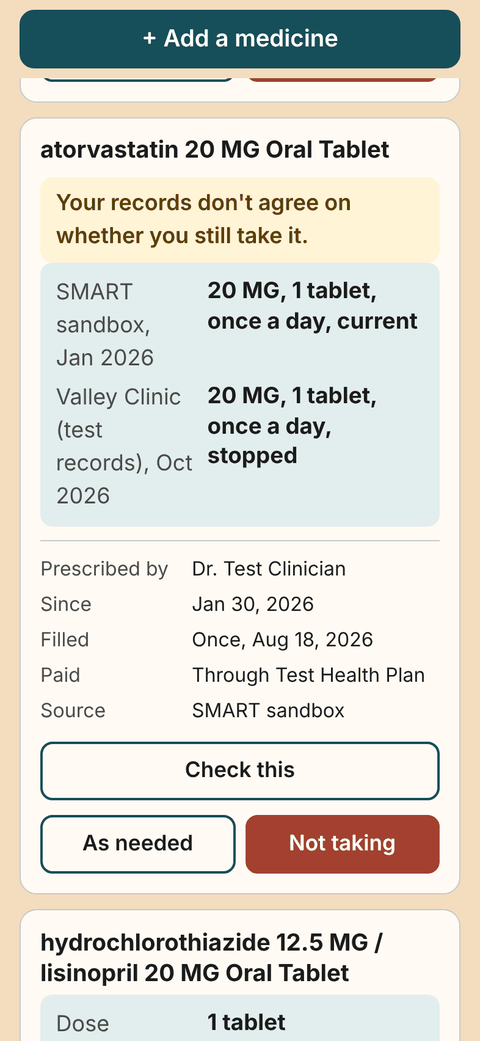
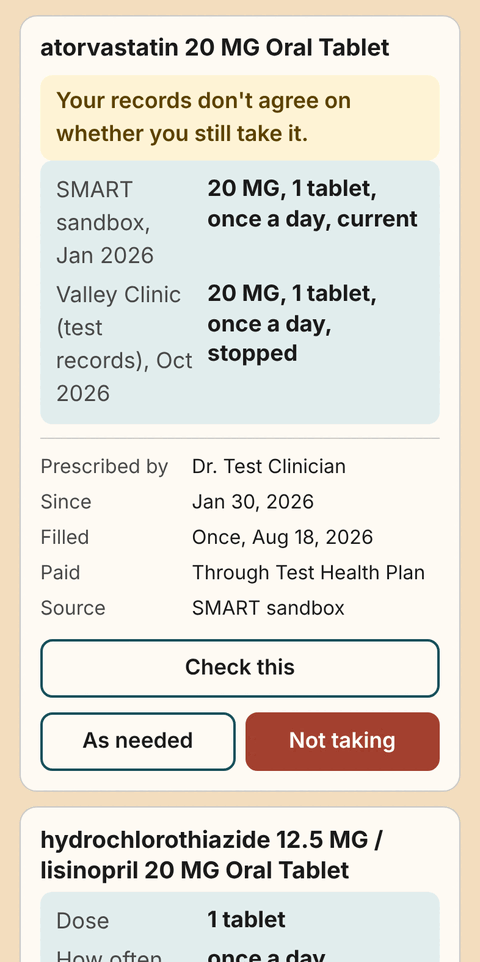
Say where the list is kept, name every source on the card, and tidy the docs
Claude-Session: https://claude.ai/code/session_01U63ikgR7FUZdBDYNJPYFoh

diff --git a/js/share.js b/js/share.js
@@ -7,7 +7,7 @@
 
 import { fillNote, completedNote, suggestNote } from "./claims.js";
 import { holdText } from "./meds.js";
-import { olderText, dateText, monthText, fillRowsFrom, isDirections, oldFillText, takeRows } from "./card.js";
+import { olderText, dateText, monthText, fillRowsFrom, isDirections, oldFillText, recordsDisagree, sourcesText, takeRows } from "./card.js";
 import { isMarkFingerprint, isOwnSide, sideWords } from "./reconcile.js";
 import { NOT_SURE, UNNAMED, UNSPECIFIED, allergenNamed, isUnspecified, unspecifiedSentence, noneCode, statementOf, longDate } from "./allergies.js";
 import { deriveKeyFromPin, toBase64Url, fromBase64Url, concatBytes } from "./vault.js";
@@ -153,7 +153,6 @@ export function buildShareBundle(list, now, warnings = {}, level = 0, undated = 
 // Staff notes (spec section 9).
 var DISAGREE_NOTE = "Records disagree";
 var UNSURE_NOTE = "Patient isn't sure";
-var ASKED_VERDICTS = ["status", "dose", "schedule"];
 
 // One current card's statements. Until the patient answers, or when they
 // aren't sure, each side is its own statement, so nothing one source says is
@@ -163,7 +162,7 @@ function currentStatements(item, level, dated) {
   var question = answer ? null : item.question;
   var sides = item.group && item.group.sides.length > 1 ? item.group.sides : null;
   // The records disagree with each other, whatever the patient marked.
-  var asked = Boolean(sides) && item.group.verdicts.some(function (verdict) { return ASKED_VERDICTS.indexOf(verdict) !== -1; });
+  var asked = recordsDisagree(item);
   var out;
   if (question && isMarkFingerprint(question.fingerprint)) {
     var records = asked ? sideStatements(item, sides, level, [DISAGREE_NOTE], dated) : [recordStatement(item, level)];
@@ -301,7 +300,7 @@ function recordStatement(item, level, from) {
     statement.informationSource = { display: item.source };
     statement.note = [{ text: CLAIMS_ONLY_NOTE }];
   } else {
-    statement.note = [{ text: "From records: " + (from || sourcesOf(item)) }];
+    statement.note = [{ text: "From records: " + (from || sourcesText(item)) }];
   }
   if (item.prescriber) {
     statement.note.push({ text: "Prescribed by " + item.prescriber });
@@ -324,11 +323,6 @@ function recordStatement(item, level, from) {
     asNeeded(statement, RECORDS_AS_NEEDED_NOTE);
   }
   return statement;
-}
-
-function sourcesOf(item) {
-  var names = ((item.group && item.group.sources) || []).filter(function (name, index, all) { return name && all.indexOf(name) === index; });
-  return names.length > 1 ? names.join(", ") : item.source;
 }
 
 // The patient's Not taking mark, as today.

diff --git a/js/card.js b/js/card.js
@@ -131,7 +131,9 @@ export function patientCard(entry, claimsLoaded, today) {
   if (claimsLoaded) facts = facts.concat(fillRows(entry.fills));
   say("Added", entry.addedAt && dateText(entry.addedAt));
   say("From", entry.older && olderText(entry.older.date));
-  if (fromRecords) say("Source", otherRecord ? chosen.sourceName : entry.source);
+  // Records that agree name every source, like the staff page; a chosen
+  // side, or records that disagree, the record whose facts these are.
+  if (fromRecords) say("Source", otherRecord ? chosen.sourceName : (chosen || recordsDisagree(entry)) ? entry.source : sourcesText(entry));
   say("You marked", entry.stoppedAt ? "Not taking, " + dateText(entry.stoppedAt) : entry.asNeededAt ? "As needed, " + dateText(entry.asNeededAt) : null);
   if (entry.prn) say("Who says", "Your records say as needed");
   else if (!entry.asNeededAt && entry.schedule && entry.schedule.asNeeded) say("Who says", "You added this");
@@ -148,6 +150,21 @@ export function patientCard(entry, claimsLoaded, today) {
   // A chosen side names the card too, so its name and dose are one record's.
   if (cardName(entry) !== entry.name) card.name = cardName(entry);
   return card;
+}
+
+// What the records disagree on that the patient is asked about. "worded"
+// alone is the same medicine, said differently.
+var ASKED_VERDICTS = ["status", "dose", "schedule"];
+
+export function recordsDisagree(entry) {
+  return Boolean(entry.group) && (entry.group.sides || []).length > 1 && (entry.group.verdicts || []).some(function (verdict) { return ASKED_VERDICTS.indexOf(verdict) !== -1; });
+}
+
+// Who says so, for records that agree: every source, each once, as the
+// patient's card and the staff page both say it.
+export function sourcesText(entry) {
+  var names = ((entry.group && entry.group.sources) || []).filter(function (name, index, all) { return name && all.indexOf(name) === index; });
+  return names.length > 1 ? names.join(", ") : entry.source;
 }
 
 // The name a card shows: the side the patient chose, else the record's.

diff --git a/js/sources.js b/js/sources.js
@@ -88,10 +88,10 @@ function fillsRow(split, date, format) {
   return ["Insurance fills", split.claims === "refused" ? "Sign in again to add them" : "Not loaded"];
 }
 
-// What launch.html does. A link that names its own server (the README's test
-// patients, the SMART Launcher) or a chosen patient signs in. A connected source
-// shows its patients; anything else the sources, so an odd address never starts
-// a sign-in.
+// What launch.html does. A link that names its own server (the test
+// patients in docs/SANDBOXES.md, the SMART Launcher) or a chosen patient
+// signs in. A connected source shows its patients; anything else the
+// sources, so an odd address never starts a sign-in.
 export function startFor(search) {
   var params = new URLSearchParams(search);
   if (params.get("iss")) return "sign-in";

diff --git a/sw.js b/sw.js
@@ -3,7 +3,7 @@
 // It never keeps health data. Records (FHIR), the sign-in server and RxNav
 // always go straight to the network and are never cached.
 
-var CACHE = "brownbag-v98";
+var CACHE = "brownbag-v99";
 // On weak Wi-Fi, stop waiting after this long and use the phone's copy.
 var NETWORK_WAIT_MS = 3000;
 

diff --git a/README.md b/README.md
@@ -33,8 +33,9 @@ The pictures are Riley Reconcile, made up, with the home server's test clinic.
   PIN), then **Connect your health records**. After that, the lock opens Brown
   Bag and the list updates by itself. It locks after 5 minutes idle.
 - **My medicines:** allergies first, then the medicines from the records,
-  repeats merged, directions in full. Older prescriptions fold away, with a
-  hospital's order for a stay among them, labelled "Hospital order".
+  repeats merged, directions in full, each card naming every source that
+  lists it. Older prescriptions fold away, with a hospital's order for a stay
+  among them, labelled "Hospital order".
 - **Fills** from insurance claims: how many, and when last. When the newest is
   over a year old, the card says "Last filled over a year ago."
 - **When sources disagree** on how much, how often or whether it's still
@@ -75,8 +76,9 @@ RxNav; the staff page, nothing.
 - **Reads:** Patient, MedicationRequest, MedicationStatement, pharmacy claims
   (ExplanationOfBenefit) and AllergyIntolerance, every page, plus RxNav for
   ingredients, term types and package codes. Nothing is written back.
-- **Storage:** the list and the patient's additions, marks and answers, saved
-  encrypted on the phone and in backups. The service worker keeps app files only.
+- **Storage:** the list is saved encrypted on the phone. The patient's
+  additions, marks and answers are saved the same way and go in backups; the
+  list and the sign-in never do. The service worker keeps app files only.
 - **Reconciliation:** every source's records are kept and compared fresh on
   each update; nothing is overwritten. A second source joins only with the
   same name and birth date. Today it's the home server's test clinic.
@@ -103,10 +105,10 @@ design; the reasons behind each are in [LIMITS](docs/LIMITS.md).
 - **Reading directions** (idea): "1 tab PO BID" read as "twice a day". [LIMITS #24](docs/LIMITS.md)
 - **A reminder before appointments** (idea). [LIMITS #1](docs/LIMITS.md)
 - **When each source was last read** (idea), with several sources. [LIMITS #21](docs/LIMITS.md)
-- **Text past 200 percent** (idea): My medicines and the QR screen fit. [LIMITS #28](docs/LIMITS.md)
+- **Text past 200 percent** (idea): My medicines, the QR screen and the staff page's title fit. [LIMITS #28](docs/LIMITS.md)
 
 **Back end**
-- **Medicare Part D fills** (designed and planned; waiting on Medicare's approval). [Design](docs/superpowers/specs/2026-11-22-medicare-blue-button-design.md)
+- **Medicare Part D fills** (designed and planned; waiting on Medicare's approval). It adds one small server function, which only completes and renews Medicare's sign-in and never sees the list. [Design](docs/superpowers/specs/2026-11-22-medicare-blue-button-design.md)
 - **Epic, Oracle Health, MEDITECH, Medicaid, pharmacy fills** (idea; named on the connections screen). [SANDBOXES](docs/SANDBOXES.md#sandboxes-looked-at)
 - **SMART Health Links** (idea; needs a server to hold the file). [LIMITS #19](docs/LIMITS.md)
 - **Two sign-ins for one person** (idea; comes after Medicare). [LIMITS #22](docs/LIMITS.md)
@@ -121,8 +123,9 @@ design; the reasons behind each are in [LIMITS](docs/LIMITS.md).
 Node 22 or later, nothing to install: `node --test "tests/*.test.mjs"` runs
 the tests. On a phone, passkeys and encryption need https: `node
 tools/serve.mjs` serves this folder at `https://localhost:8443` with a
-certificate kept in `.certs/`. For two sources, start it with
-`BROWN_BAG_DEMO=two-clinics` ([the test clinic](docs/SANDBOXES.md#the-home-servers-test-clinic)).
+certificate made with mkcert and kept in `.certs/`. For two sources, start
+it with `BROWN_BAG_DEMO=two-clinics`. Both are in
+[the test clinic](docs/SANDBOXES.md#the-home-servers-test-clinic).
 
 ## More docs
 

diff --git a/docs/LIMITS.md b/docs/LIMITS.md
@@ -133,19 +133,18 @@ an idea becomes a plan only after its own design.
     Not taking to tidy the list, the one they take must not go with it.
   - When (Tyler, 2026-11-24): with Medicare, its fills first, then joining cards.
   - Ideas: look up the NDC in RxNav by the record's date (Medicare plan, Task 1),
-    join only cards with no marks, and make a mark on the joined card cover all.
-- [ ] **17. A medicine or allergy found in two places names only one of them.**
-  - Now (2026-11-26, reconciliation): a card joined from several sources
-    names every source where the sources disagree (each version under its
-    source and date, on My medicines and the staff page). When they agree,
-    the staff page, See what's inside and the FHIR file name every source
-    ("SMART sandbox, Valley Clinic (test records)"), but the patient's card
-    on My medicines still says only the shown record's source. The unnamed
-    allergy row doesn't name its source yet; only one source sends allergies
-    today.
-  - When (Tyler, 2026-11-24): with the second source. The card and the QR code
-    say "Source: SMART sandbox and Epic", and the unnamed allergy row names its
-    source too.
+    and join only cards with no marks. (A mark on the joined card covering all
+    is built: see above.)
+- [x] **17. A medicine or allergy found in two places names only one of them.**
+  - Now (2026-11-26, Tyler: yes): a card joined from several sources names
+    every source. When they agree, the patient's card on My medicines, the
+    staff page, See what's inside and the FHIR file all say "SMART sandbox,
+    Valley Clinic (test records)", in the same words (`sourcesText` in
+    `js/card.js`). When they disagree, each version is under its own source
+    and date. The unnamed allergy row names no source: only the SMART sandbox
+    sends allergies today, so it has one place to be from. When a second
+    source sends allergies, that row should name its source too.
+  - When (Tyler, 2026-11-24): with the second source.
 - [ ] **18. Names alone often don't join.** openFDA and DailyMed write one medicine
   many ways ("LISINOPRIL TABLET", "Lisinopril", strength "40 mg/1"), with package
   numbers with or without dashes, and brand or generic (looked at 2026-11-24).

diff --git a/docs/NEEDS-TESTING.md b/docs/NEEDS-TESTING.md
@@ -43,11 +43,28 @@ pass, when it touches:
 
 ## Waiting for the next pass
 
+**Every source on a card whose sources agree** (2026-11-26, Task 11 fix;
+LIMITS #17). Checked only in headless Chromium (iPhone 15 size, PIN lock,
+Riley with the test clinic). Run `node tools/reconcile-patients.mjs` first,
+then `BROWN_BAG_DEMO=two-clinics node tools/serve.mjs`, then
+`git checkout -- tests/fixtures/reconcile/clinics` when done. Sign in as
+Riley. On both virtual phones, on My medicines:
+
+- The sertraline card (Zoloft in the test clinic) says "Source: SMART
+  sandbox, Valley Clinic (test records)", and the line wraps well at the
+  largest text. Scan its QR code: the staff page names the same two.
+- A card from one source, such as metformin 500 MG, still says "Source:
+  SMART sandbox"; one from the test clinic alone, such as amlodipine, says
+  "Source: Valley Clinic (test records)".
+- The cards that disagree (atorvastatin, lisinopril, methotrexate) are as
+  before: each version under its own source, and "Source" names the shown
+  record's.
+
 **The privacy page and the app cache** (2026-11-26, Task 11). On both
 virtual phones, open Brown Bag once with a signal so it takes the new app
-files (cache `brownbag-v98`), then More options ▸ Privacy:
+files (cache `brownbag-v99`), then More options ▸ Privacy:
 
-- "What stays on your phone" ends its first lines with "When your records
+- "What stays on your phone" says "When your records
   disagree, your answers are kept with what you add: locked, and in your
   backups." "Backups" says "They hold what you added and your answers, never
   your sign-in." Both wrap well at the largest text, and Back returns to

diff --git a/docs/HOW-IT-WORKS.md b/docs/HOW-IT-WORKS.md
@@ -81,6 +81,9 @@ on 2 things") opens the review below, unless some of the list didn't load.
   patient's medicines, or knows of none, gets a line of its own ("<Source> has no information about your
   medicines." or "<Source> says: no medicines known."), never a card, and the
   list never reads as none.
+- **When sources agree**, the joined card names every source that lists it
+  ("Source: SMART sandbox, Valley Clinic (test records)"), as the staff page
+  does. A card from one source names that one.
 - **When sources disagree** on how much, how often, or whether it's still
   taken, the medicine is one card with each source's version and date, and a
   box under Allergies says "Your records don't agree on 2 things" with **Check

diff --git a/docs/SANDBOXES.md b/docs/SANDBOXES.md
@@ -65,7 +65,7 @@ clinic file; anyone else gets Loria's. Against Loria Jenkins it disagrees on
 one dose (metoprolol) and adds lisinopril, which she doesn't have. Her
 simvastatin and Lasix are coded only by strength, with no form, so the
 clinic's simvastatin and furosemide tablets show as cards of their own
-instead of joining hers (Task 6c); Riley has the stops to check.
+instead of joining hers; Riley has the stops to check.
 `?demo=someone-else` in the page
 address makes its birth date a day off, so it's kept out as not matching. Only the home server
 (port 8443) asks for it; the published app never does.
